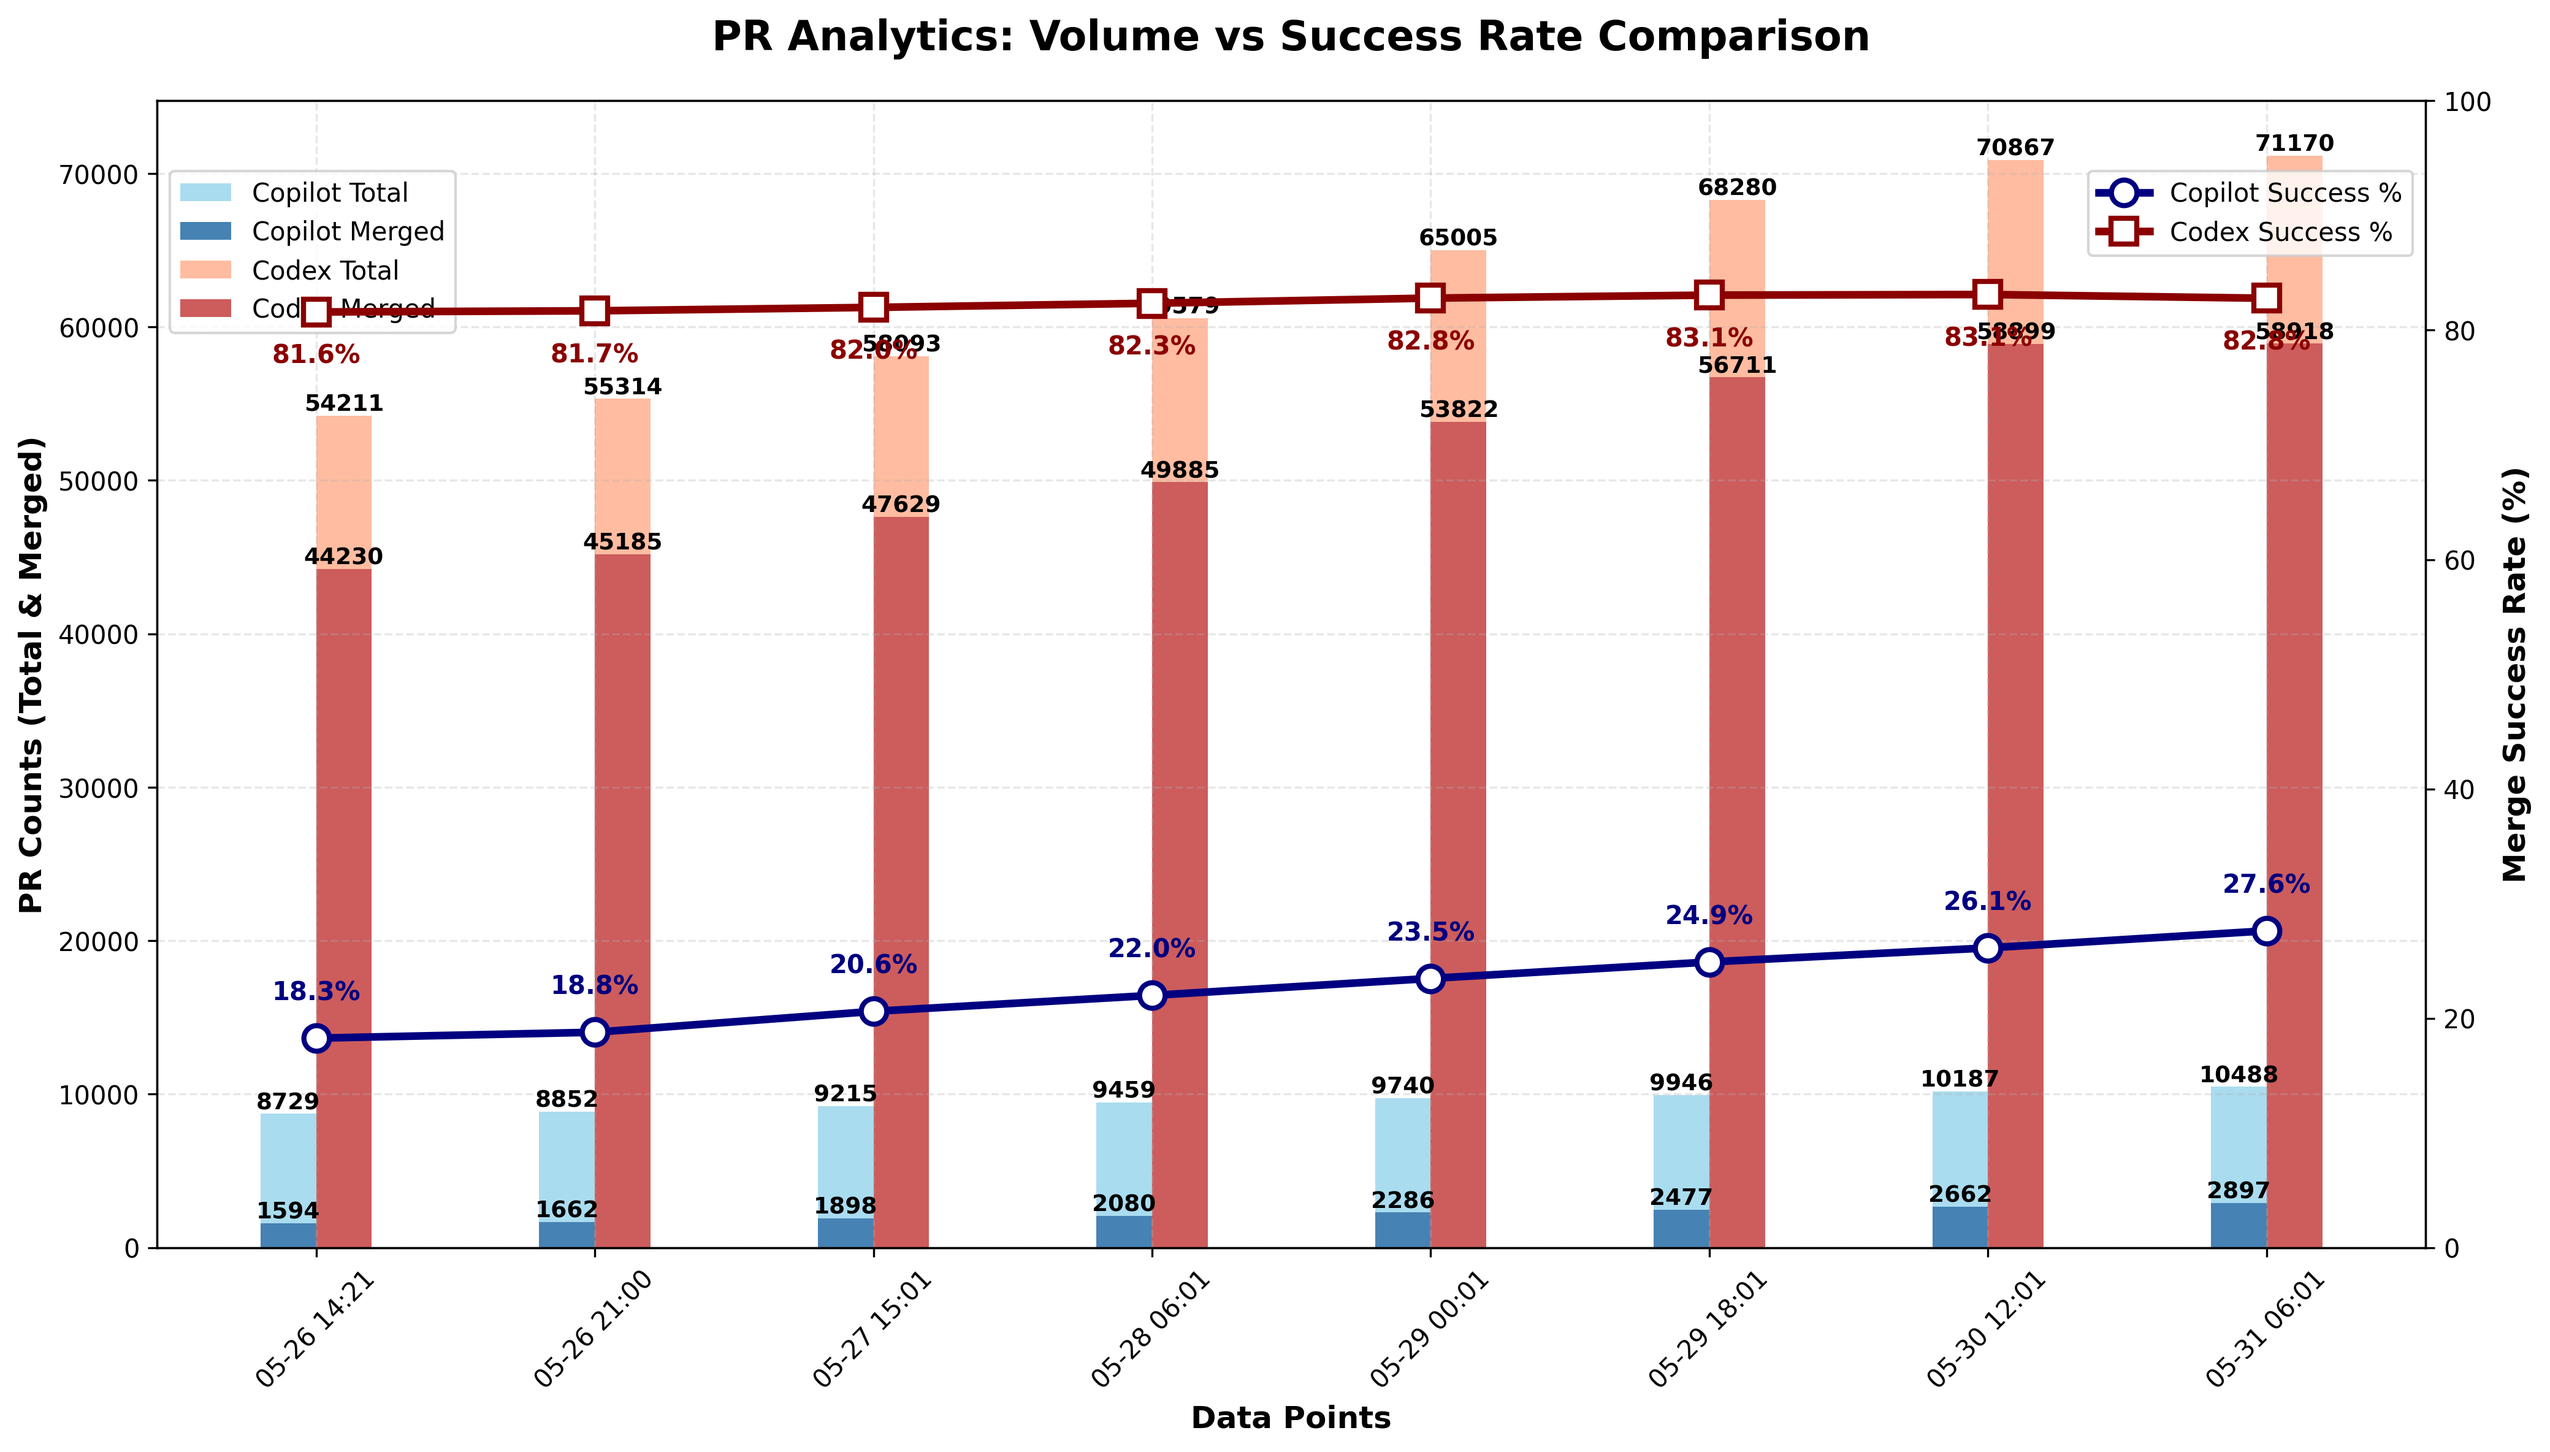
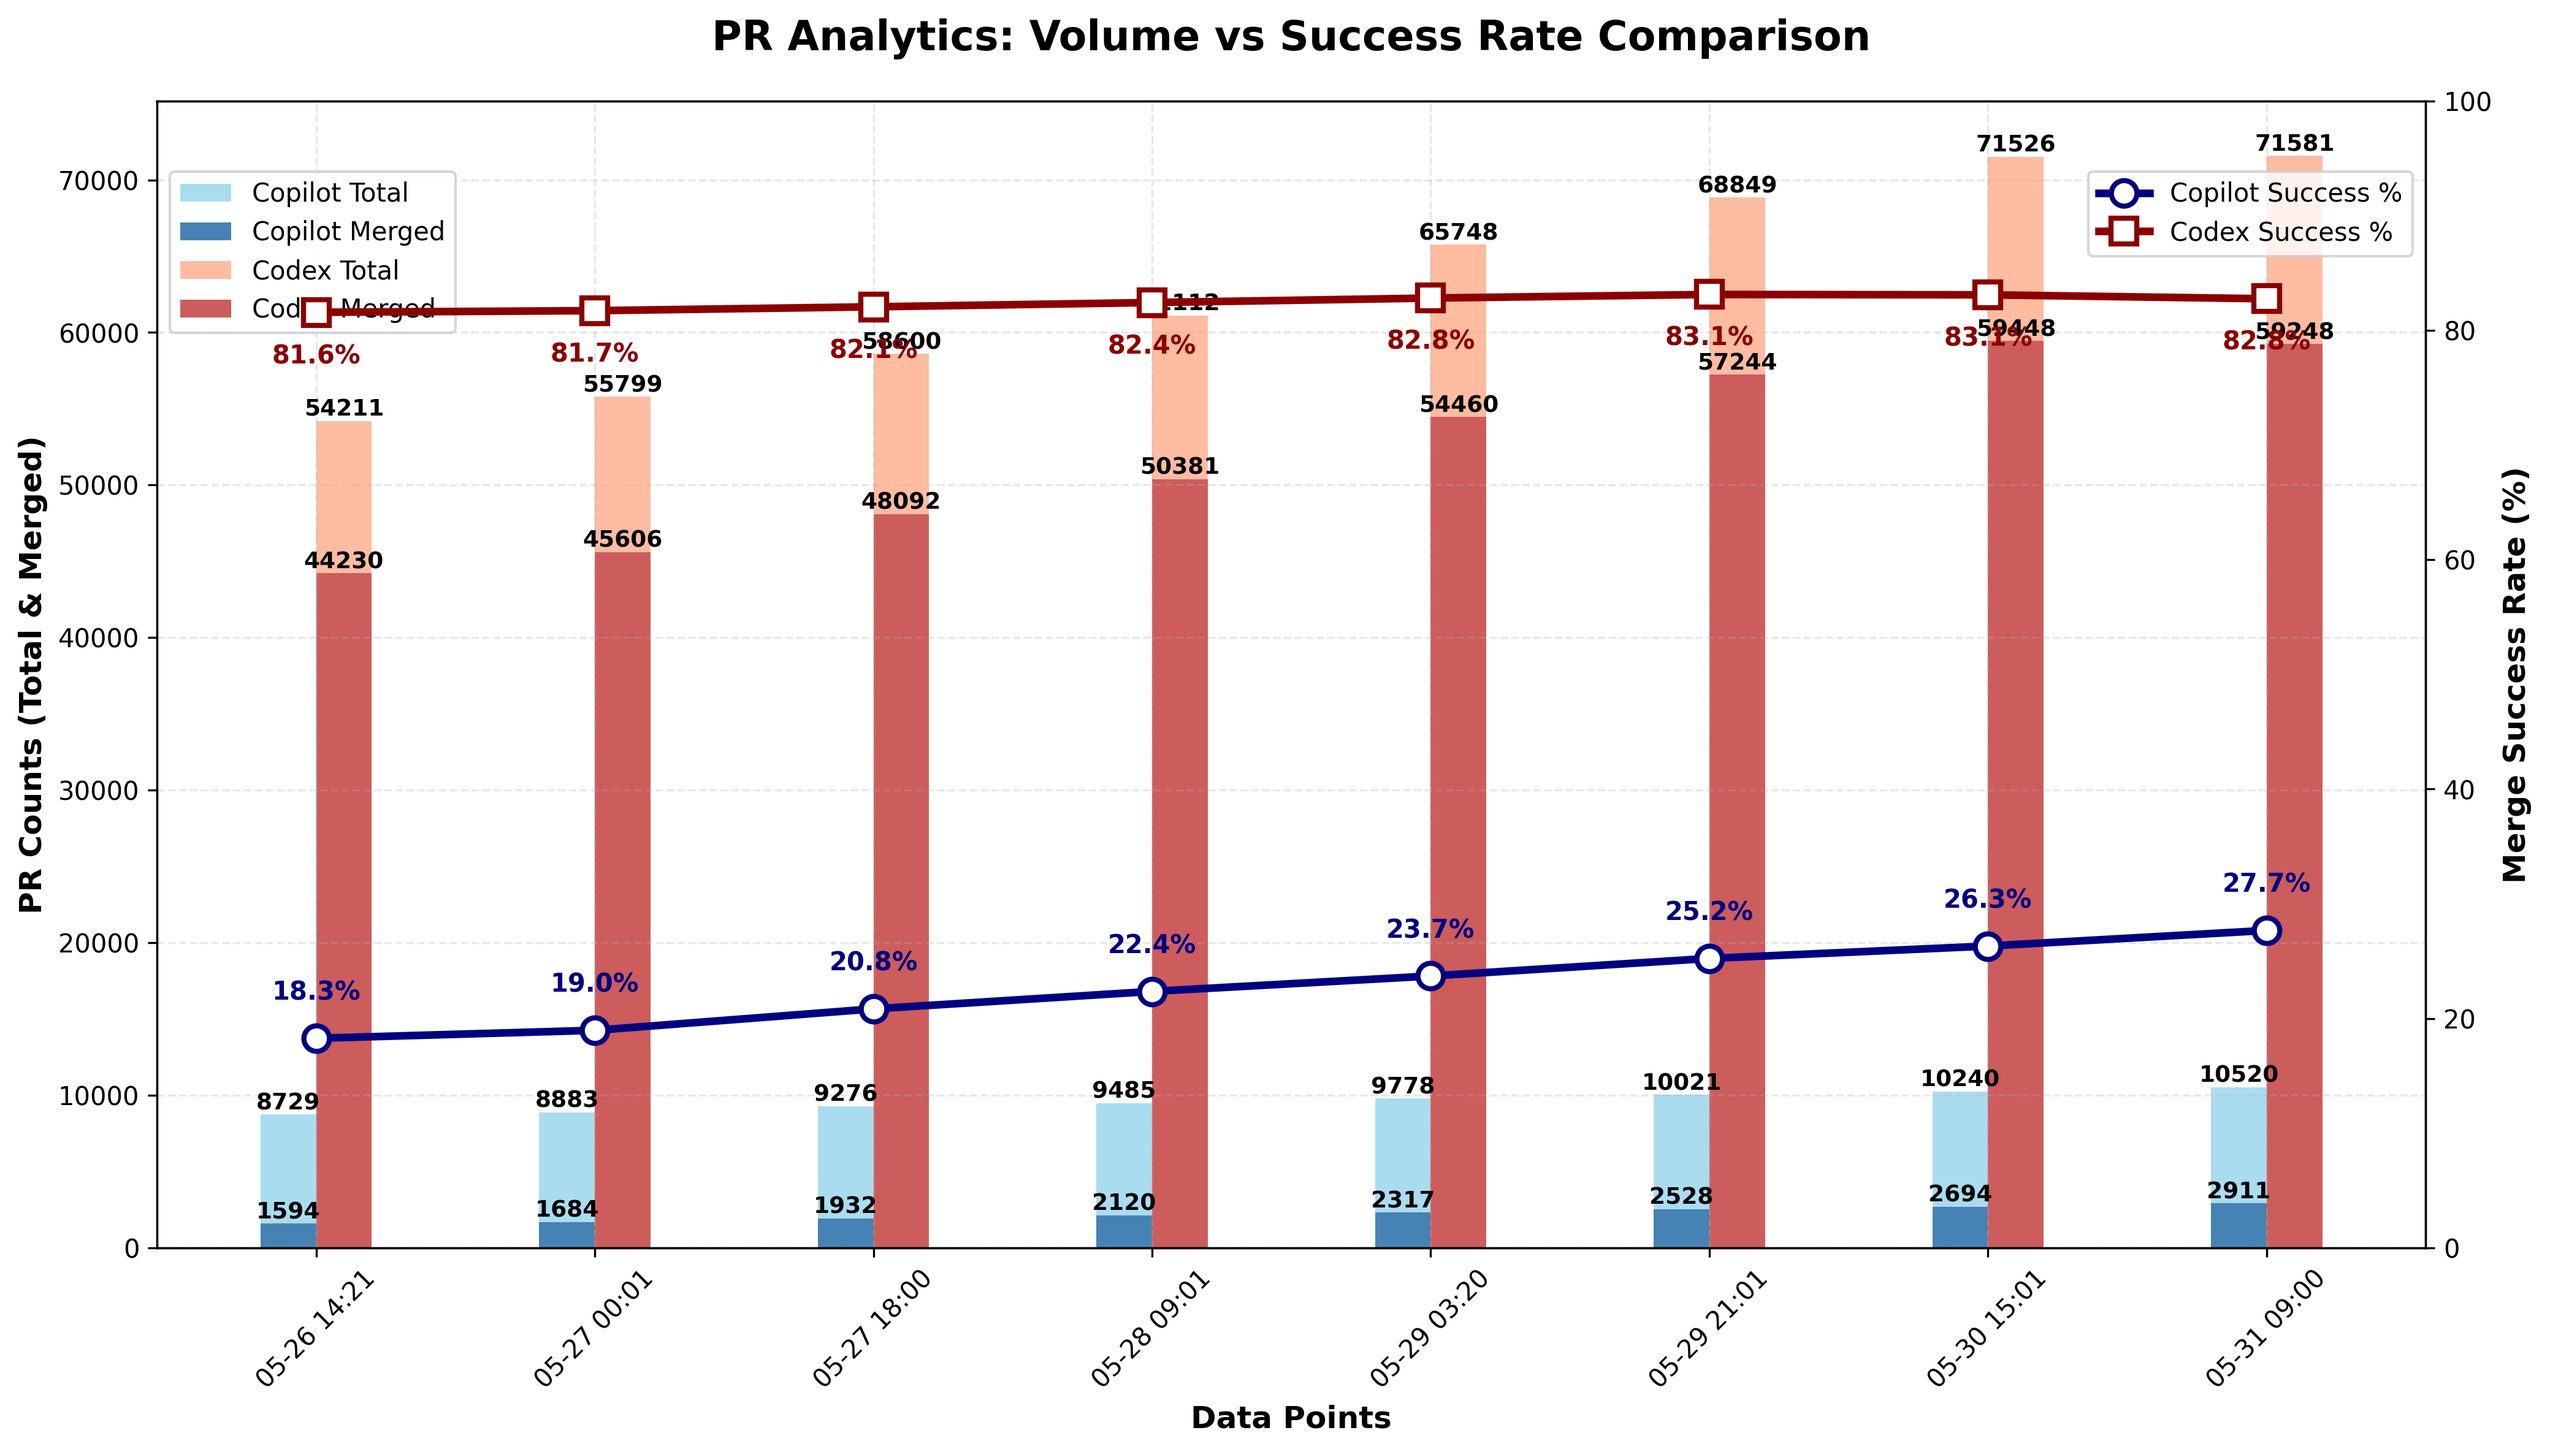
chore: update PR‑approval chart

diff --git a/docs/index.html b/docs/index.html
@@ -44,22 +44,22 @@
                 <tbody>
                     <tr>
                         <td>Copilot</td>
-                        <td>10,488</td>
-                        <td>2,897</td>
-                        <td>27.62%</td>
+                        <td>10,520</td>
+                        <td>2,911</td>
+                        <td>27.67%</td>
                     </tr>
                     <tr>
                         <td>Codex</td>
-                        <td>71,170</td>
-                        <td>58,918</td>
-                        <td>82.78%</td>
+                        <td>71,581</td>
+                        <td>59,248</td>
+                        <td>82.77%</td>
                     </tr>
                 </tbody>
             </table>
         </section>
 
         <footer>
-            <p>Last updated: <span id="last-updated">May 31, 2025 06:01 UTC</span></p>
+            <p>Last updated: <span id="last-updated">May 31, 2025 09:00 UTC</span></p>
             <p><a href="https://github.com/aavetis/ai-pr-watcher">View on GitHub</a></p>
         </footer>
     </div>

diff --git a/README.md b/README.md
@@ -19,5 +19,5 @@ Explore the GitHub search queries used:
 
 | Project | Total PRs | Merged PRs | Merge Rate |
 | ------- | --------- | ---------- | ---------- |
-| Copilot | 10,488 | 2,897 | 27.62% |
-| Codex   | 71,170 | 58,918 | 82.78% |
+| Copilot | 10,520 | 2,911 | 27.67% |
+| Codex   | 71,581 | 59,248 | 82.77% |
